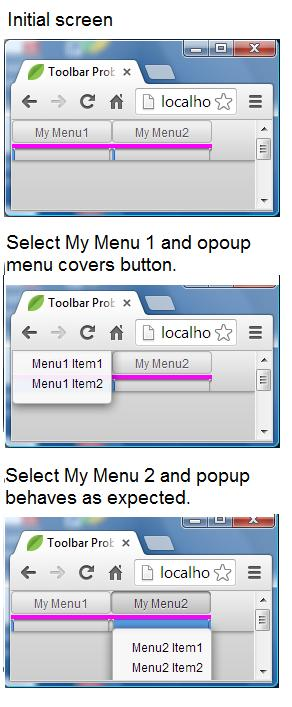
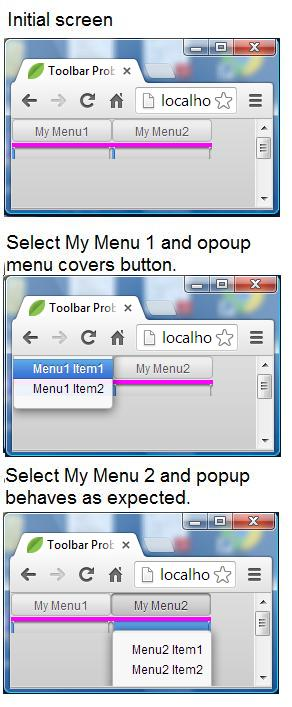
Removed the PopupButtonViews from the ToolbarView and just added them to an SC.View for simplicity.

diff --git a/apps/toolbar_problem/resources/main_page.js b/apps/toolbar_problem/resources/main_page.js
@@ -13,11 +13,11 @@ ToolbarProblem.mainPage = SC.Page.design({
     mainPane: SC.MainPane.design({
         childViews: ['toolbarView'],
         
-        toolbarView: SC.ToolbarView.extend({
+        toolbarView: SC.View.design({
             layout: { height: 40 },
             childViews: ['menu1', 'menu2'],
 
-            menu1: SC.PopupButtonView.extend({
+            menu1: SC.PopupButtonView.design({
                 title: "My Menu1",
                 layout: {left: 0, width: 100},
                 menu: SC.MenuPane.create({
@@ -29,7 +29,7 @@ ToolbarProblem.mainPage = SC.Page.design({
                 })
             }),
 
-            menu2: SC.PopupButtonView.extend({
+            menu2: SC.PopupButtonView.design({
                 title: "My Menu2",
                 layout: {left: 100, width: 100},
                 menu: SC.MenuPane.create({

diff --git a/README.md b/README.md
@@ -1,7 +1,7 @@
-sc-toolbar-problem
+SC-PopupButtonView-Problem
 ==================
 
-Created a small program to highligh a problem I'm having with PopupButtonViews on a ToolbarView.
-The ToolbarView has 2 popupButtonViews, each with a menu associated with it.  Besides the ugly default style
+Created a small program to highligh a problem I'm having with PopupButtonViews in a SC.View.
+There are 2 popupButtonViews, each with a menu associated with it.  Besides the ugly default style
 (I assume), the first menu pops up at the buttons (0,0) point, covering the button, while the second pops up
 just under the button as it should.  "screen_shot.jpg" shows problem. Any ideas?
